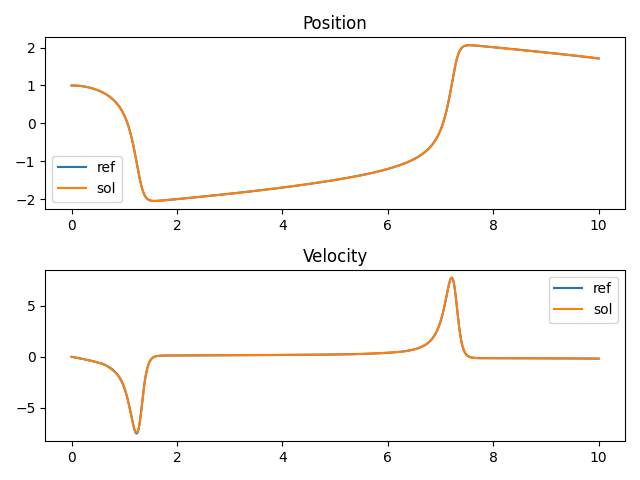
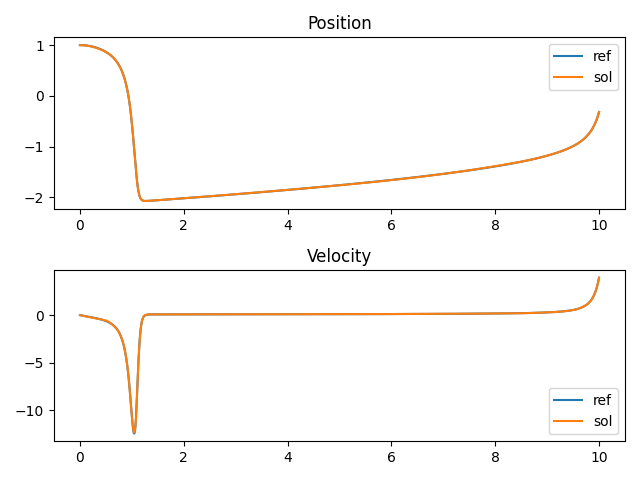
removed commented outcode and tried lower tolerances for optimizer

diff --git a/02_FMPy/05_optimise_nn/fmpy_masterfile_nn_input.py b/02_FMPy/05_optimise_nn/fmpy_masterfile_nn_input.py
@@ -30,268 +30,10 @@ import time
 # To use the plot_results file we need to add the uppermost folder to the PYTHONPATH
 # Only Works if file gets called from 00_Code
 sys.path.insert(0, os.getcwd())
-from plot_results import plot_results, get_plot_path
+from plot_results import plot_results, get_file_path
 from jax.config import config
 config.update("jax_debug_nans", False)
 config.update("jax_enable_x64", True)
-
-# class FMUEvaluator:
-#     """Class which manages the evaluation of the FMU with python; stores important
-#     variables like the fmu instance, variable references. Also manages the evaluation
-#     with a machine learning model: One can switch between training and evaluation mode.
-#     In training mode relevant derivatives and jacobians get caluclated, not so in evaluation
-#     mode.
-#     """
-#     fmu: fmpy.fmi2.FMU2Model
-#     fmu_filename: str
-#     model_description: fmpy.model_description.ModelDescription
-#     vr_states: List
-#     vr_derivatives: List
-#     vr_inputs: List
-#     vr_outputs: List
-#     n_states: int
-#     n_events: int
-#     Tstart: float
-#     Tend: float
-#     training: bool
-
-#     def __init__(self, fmu_filename, Tstart, Tend):
-#         self.fmu_filename = fmu_filename
-#         self.Tstart = Tstart
-#         self.Tend = Tend
-
-#         self.model_description = read_model_description(fmu_filename)
-#         # extract the FMU
-#         unzipdir = extract(fmu_filename)
-#         self.fmu = fmpy.fmi2.FMU2Model(guid=self.model_description.guid,
-#                         unzipDirectory=unzipdir,
-#                         modelIdentifier=self.model_description.modelExchange.modelIdentifier,
-#                         instanceName='instance1')
-#         # instantiate
-#         self.fmu.instantiate()
-
-#         # set variable start values (of "ScalarVariable / <type> / start")
-#         pass
-
-#         # initialize
-#         # determine continous and discrete states
-#         self.fmu.setupExperiment(startTime=Tstart, stopTime=Tend)
-#         self.fmu.enterInitializationMode()
-
-#         # set the input start values at time = Tstart
-#         pass
-
-#         self.fmu.exitInitializationMode()
-
-#         self.n_states = self.model_description.numberOfContinuousStates
-#         self.n_events = self.model_description.numberOfEventIndicators
-#         initialEventMode = False
-#         enterEventMode = False
-#         timeEvent = False
-#         stateEvent = False
-#         previous_z = np.zeros(self.n_events)
-
-#         # retrieve initial state x and
-#         # nominal values of x (if absolute tolerance is needed)
-#         # pointers to exchange state and derivative vectors with FMU
-#         pointers = SimpleNamespace(
-#             x=np.zeros(self.n_states),
-#             dx=np.zeros(self.n_states),
-#             z=np.zeros(self.n_events),
-#         )
-#         pointers._px = pointers.x.ctypes.data_as(
-#             ctypes.POINTER(ctypes.c_double)
-#         )
-#         pointers._pdx = pointers.dx.ctypes.data_as(
-#             ctypes.POINTER(ctypes.c_double)
-#         )
-#         pointers._pz = pointers.z.ctypes.data_as(
-#             ctypes.POINTER(ctypes.c_double)
-#         )
-#         status = self.fmu.getContinuousStates(pointers._px, pointers.x.size)
-#         self.pointers = pointers
-
-#         # collect the value references
-#         vrs = {}
-#         for variable in self.model_description.modelVariables:
-#             vrs[variable.name] = variable.valueReference
-
-#         # get the value references for the variables we want to get/set
-#         self.vr_states   = [vrs['u'], vrs['v']]
-#         self.vr_derivatives = [vrs['der(u)'], vrs['der(v)']]
-#         self.vr_input = [vrs['damping']]
-
-#         self.fmu.enterContinuousTimeMode()
-
-#         self.training = False
-
-#     def reset_fmu(self, Tstart=None, Tend=None):
-#         """Reset the FMU, such that a new run can be started. New start and end time
-#         can be given.
-
-#         Parameters
-#         ----------
-#         Tstart : float, optional
-#             Start time for the FMU, by default None
-#         Tend : float, optional
-#             Start time for the FMU, by default None
-#         """
-
-#         if Tstart is None:
-#             Tstart = self.Tstart
-
-#         if Tend is None:
-#             Tend = self.Tend
-
-#         self.fmu.reset()
-#         self.fmu.setupExperiment(startTime=Tstart, stopTime=Tend)
-#         self.fmu.enterInitializationMode()
-#         self.Tstart = Tstart
-#         self.Tend = Tend
-
-#         # set the input start values at time = Tstart
-#         pass
-
-#         self.fmu.exitInitializationMode()
-
-#         # retrieve initial state x and
-#         # nominal values of x (if absolute tolerance is needed)
-#         # pointers to exchange state and derivative vectors with FMU
-#         pointers = SimpleNamespace(
-#             x=np.zeros(self.n_states),
-#             dx=np.zeros(self.n_states),
-#             z=np.zeros(self.n_events),
-#         )
-#         pointers._px = pointers.x.ctypes.data_as(
-#             ctypes.POINTER(ctypes.c_double)
-#         )
-#         pointers._pdx = pointers.dx.ctypes.data_as(
-#             ctypes.POINTER(ctypes.c_double)
-#         )
-#         pointers._pz = pointers.z.ctypes.data_as(
-#             ctypes.POINTER(ctypes.c_double)
-#         )
-#         self.pointers = pointers
-
-#         self.fmu.enterContinuousTimeMode()
-
-#     def evaluate_fmu(self, t, dt, augment_model_function, augment_model_args):
-#         """Evaluation function of the FMU. Uses the internally stored FMU and a
-#         augment model function to calculate the derivatives for the
-#         calculation of the new state. Arguments for the function
-#         must be given to be directly insertable into the augment model function
-
-#         Parameters
-#         ----------
-#         t : float
-#             The current time
-#         dt : _type_
-#             The current time step
-#         augment_model_function : function
-#             Function which should be evaluated for the contribution of the machine learning
-#             model. Must take its own arguments as first input and the current state vector
-#             as second input
-#         augment_model_args :
-#             Arguments like weights and biases for the machine learning function
-
-#         Returns
-#         -------
-#         _type_
-#             Derivatives for the new state, Flag whether event mode has been entered,
-#             Flag whether the simulation needs to be terminated; In Training mode:
-#             dfmu_dz, dfmu_dinput
-#         """
-#         status = self.fmu.setTime(t)
-
-#         if self.training:
-#             control = augment_model_function(augment_model_args, self.pointers.x)
-#             self.fmu.setReal(self.vr_input, [control])
-#             status = self.fmu.getDerivatives(self.pointers._pdx, self.pointers.dx.size)
-#             dfmu_dz_at_t = self.dfmu_dz_function()
-#             dfmu_dinput_at_t = self.dfmu_dinput_function()
-#         else:
-#             control = augment_model_function(augment_model_args, self.pointers.x)
-#             self.fmu.setReal(self.vr_input, [control])
-#             status = self.fmu.getDerivatives(self.pointers._pdx, self.pointers.dx.size)
-
-#         self.pointers.x += dt * self.pointers.dx
-
-#         status = self.fmu.setContinuousStates(self.pointers._px, self.pointers.x.size)
-
-#         # get event indicators at t = time
-#         status = self.fmu.getEventIndicators(self.pointers._pz, self.pointers.z.size)
-
-#         # inform the model about an accepted step
-#         enterEventMode, terminateSimulation = self.fmu.completedIntegratorStep()
-
-#         # get continuous output
-#         # fmu.getReal([vr_outputs])
-
-#         # If we are in Training mode return the derivatives for the next step,
-#         # FMU information and Optimisation jacobians; otherwise leave out jacobians
-#         if self.training:
-#             return self.pointers.dx, enterEventMode, terminateSimulation, dfmu_dz_at_t, dfmu_dinput_at_t
-#         else:
-#             return self.pointers.dx, enterEventMode, terminateSimulation
-
-#     def dfmu_dz_function(self):
-#         """Calculate the jacobian of the fmu function w.r.t. the state variables
-
-#         Parameters
-#         ----------
-#         fmu : fmpy.fmi2.FMU2Model
-#             The python object which controls the FMU
-#         number_of_states : int
-#             How many states the FMU equation has (often times 2)
-#         vr_derivatives : List of int
-#             The variable reference numbers of the derivative variables. Each variable
-#             in the FMU has a indexing number.
-#         vr_states : List of int
-#             The variable reference numbers of the state variables. Each variable
-#             in the FMU has a indexing number.
-
-#         Returns
-#         -------
-#         _type_
-#             The jacobian as a numpy array
-#         """
-#         dfmu_dz = np.zeros((2,2))
-#         for j in range(self.n_states):
-#                 dfmu_dz[:, j] = np.array(self.fmu.getDirectionalDerivative(self.vr_derivatives, [self.vr_states[j]], [1.0]))
-#         return dfmu_dz
-
-#     def dfmu_dinput_function(self):
-#         """Calculate the jacobian of the fmu function w.r.t. the input/control variables
-
-#         Parameters
-#         ----------
-#         fmu : fmpy.fmi2.FMU2Model
-#             The python object which controls the FMU
-#         vr_derivatives : List of int
-#             The variable reference numbers of the derivative variables. Each variable
-#             in the FMU has a indexing number.
-#         vr_input : List of int
-#             The variable reference numbers of the input variables. Each variable
-#             in the FMU has a indexing number.
-
-#         Returns
-#         -------
-#         _type_
-#             The jacobian as a numpy array
-#         """
-#         return self.fmu.getDirectionalDerivative(self.vr_derivatives, self.vr_input, [1.0])
-
-#     def setup_initial_state(self, z0):
-#         """Before starting the iteration of the ODE solver set the inital state in the
-#         FMU and load the pointers with the correct values
-
-#         Parameters
-#         ----------
-#         z0 : _type_
-#             _description_
-#         """
-#         self.fmu.setReal(self.vr_states, z0)
-#         self.fmu.getContinuousStates(self.pointers._px, self.pointers.x.size)
 
 @jit
 def adjoint_f(adj, z, z_ref, t, optimisation_parameters, df_dz_at_t):
@@ -333,11 +75,12 @@ def g(z, z_ref, model_parameters):
 
     This function can either take individual floats for z
     and z_ref or whole numpy arrays'''
-    return jnp.sum(0.5 * (z_ref - z)**2, axis = 0)
+    return jnp.mean(0.5 * (z_ref - z)**2, axis = 0)
 
+@jit
 def J(z, z_ref, optimisation_parameters):
     '''Calculates the complete loss of a trajectory w.r.t. a reference trajectory'''
-    return np.sum(g(z, z_ref, optimisation_parameters))
+    return np.mean(g(z, z_ref, optimisation_parameters))
 
 def f_euler(z0, t, fmu_evaluator: FMUEvaluator, model, model_parameters=None):
     '''Applies euler to the VdP ODE by calling the fmu; returns the trajectory'''
@@ -485,16 +228,16 @@ if __name__ == '__main__':
     # ODE SETUP
     ####################################################################################
     Tstart = 0.0
-    Tend = 10.0
+    Tend = 20.0
     nSteps = 1001
     t = np.linspace(Tstart, Tend, nSteps)
     z0 = np.array([1.0, 0.0])
     mu = 5.0
-    second_run = False
+    second_run = True
 
     # NEURAL NETWORK
     ####################################################################################
-    layers = [20, 20, 1]
+    layers = [16, 16, 16, 1]
     key1, key2 = random.split(random.PRNGKey(0), 2)
     neural_network = ExplicitMLP(features=layers)
     neural_network_parameters = neural_network.init(key2, np.zeros((1, 2)))
@@ -549,7 +292,7 @@ if __name__ == '__main__':
 
     # Optimise the mu value via scipy
     # Optimisers: CG, BFGS, Newton-CG, L-BFGS-B, TNC, SLSQP, dogleg, trust-ncg, trust-krylov, trust-exact and trust-constr
-    res = minimize(optimisation_wrapper, flat_nn_parameters, method='BFGS', jac=True, args=args)
+    res = minimize(optimisation_wrapper, flat_nn_parameters, method='BFGS', jac=True, args=args, tol=1e-8)
     print(res)
 
     neural_network_parameters = res.x
@@ -557,8 +300,19 @@ if __name__ == '__main__':
 
     fmu_evaluator.reset_fmu(Tstart, Tend)
 
+    fmu_evaluator.training = False
+    z = f_euler(z0, t, fmu_evaluator, model=jitted_neural_network, model_parameters=neural_network_parameters)
 
-    # SECOND REFERENCE AND OPTIMISATION RUN WITH MU=8.53
+    path = os.path.abspath(__file__)
+    plot_path = get_file_path(path)
+    plot_results(t, z, z_ref, plot_path+f'_mu_{mu}')
+
+    fmu_evaluator.reset_fmu(Tstart, Tend)
+
+
+
+    # SECOND REFERENCE AND OPTIMISATION RUN WITH MU=8.53; Is the training better if we
+    # pretrain with a another mu value?
     if second_run:
 
         fmu_evaluator.training = False
@@ -589,7 +343,7 @@ if __name__ == '__main__':
         # Optimise the mu value via scipy
         # Optimisers CG, BFGS, Newton-CG, L-BFGS-B, TNC, SLSQP, dogleg, trust-ncg, trust-krylov, trust-exact and trust-constr
         # BFGS seems not to terminate as quickly even if the loss change is small
-        res = minimize(optimisation_wrapper, flat_nn_parameters, method='BFGS', jac=True, args=args)
+        res = minimize(optimisation_wrapper, flat_nn_parameters, method='BFGS', jac=True, args=args, tol=1e-8)
         print(res)
         # The values we optimized for are inside the result variable
         neural_network_parameters = res.x
@@ -604,5 +358,5 @@ if __name__ == '__main__':
     z = f_euler(z0, t, fmu_evaluator, model=jitted_neural_network, model_parameters=neural_network_parameters)
 
     path = os.path.abspath(__file__)
-    plot_path = get_plot_path(path)
-    plot_results(t, z, z_ref, plot_path)
+    plot_path = get_file_path(path)
+    plot_results(t, z, z_ref, plot_path+f'_mu_{mu}')
